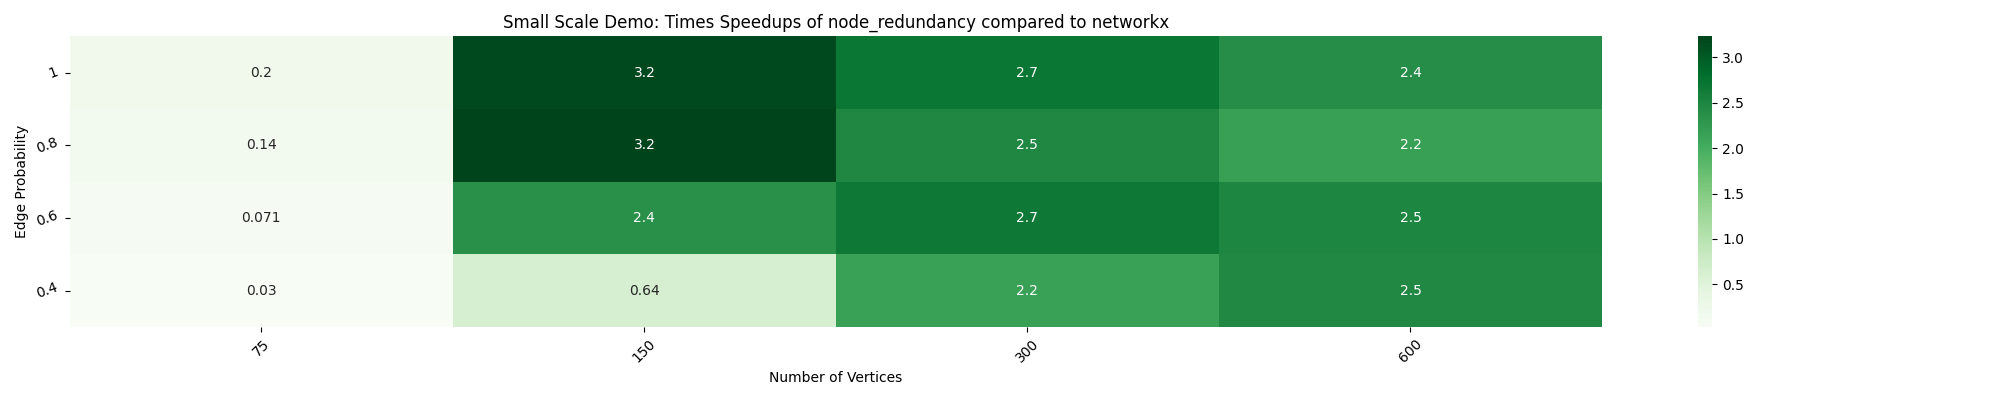
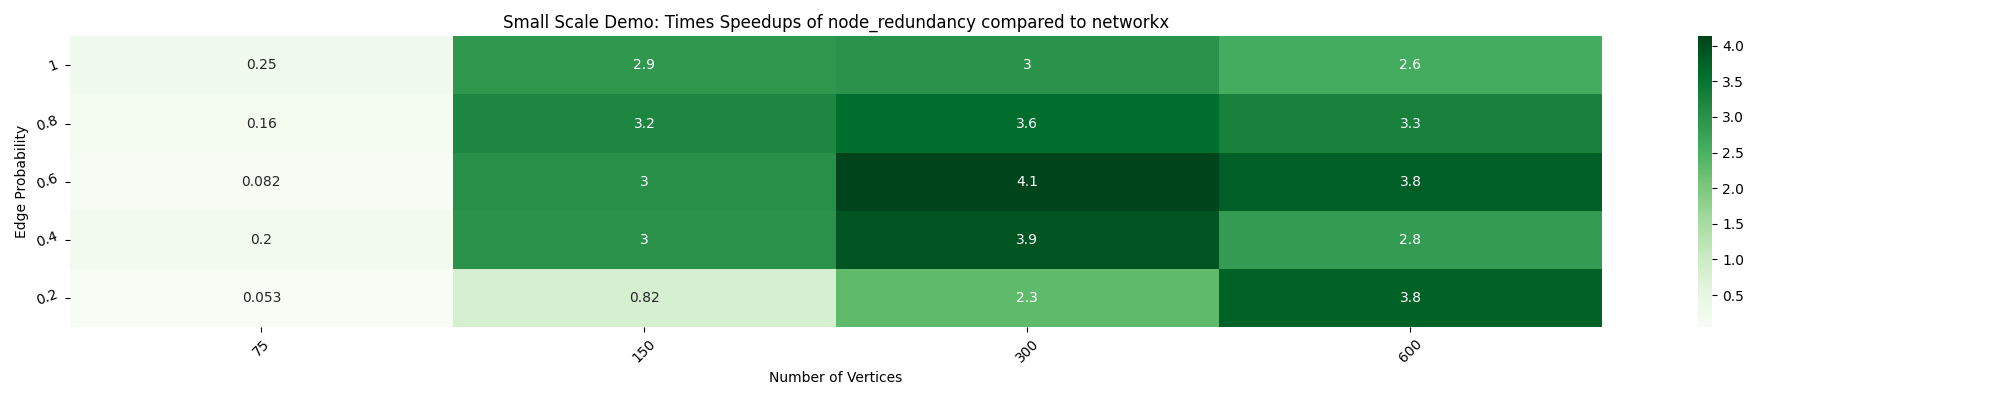
added get_chunks, updated heatmap(better speedups)

diff --git a/timing/timing_individual_function.py b/timing/timing_individual_function.py
@@ -14,44 +14,49 @@ heatmapDF = pd.DataFrame()
 # for bipartite graphs
 # n = [50, 100, 200, 400]
 # m = [25, 50, 100, 200]
-number_of_nodes_list = [10, 50, 100, 300, 500]
+number_of_nodes_list = [75, 150, 300, 600]
+weighted = False
 pList = [1, 0.8, 0.6, 0.4, 0.2]
 currFun = nx.bipartite.node_redundancy
 for p in pList:
     for num in range(len(number_of_nodes_list)):
         # create original and parallel graphs
-        G = nx.fast_gnp_random_graph(num, p, seed=42, directed=True)
+        G = nx.fast_gnp_random_graph(
+            number_of_nodes_list[num], p, seed=42, directed=True
+        )
+
         """
         # for bipartite.node_redundancy
         G = nx.bipartite.random_graph(n[num], m[num], p, seed=42, directed=True)
         for i in G.nodes:
             l = list(G.neighbors(i))
-            if len(l)==0:
+            if len(l) == 0:
                 v = random.choice(list(G.nodes) - [i,])
                 G.add_edge(i, v)
-                G.add_edge(i, random.choice(list(G.nodes) - [i, v]))
-            elif len(l)==1:
-                G.add_edge(i, random.choice(list(G.nodes) - [i, list(G.neighbors(i))[0]]))
+                G.add_edge(i, random.choice([node for node in G.nodes if node != i]))
+            elif len(l) == 1:
+                G.add_edge(i, random.choice([node for node in G.nodes if node != i and node not in list(G.neighbors(i))]))
         """
 
         # for weighted graphs
-        random.seed(42)
-        for u, v in G.edges():
-            G[u][v]["weight"] = random.random()
+        if weighted:
+            random.seed(42)
+            for u, v in G.edges():
+                G[u][v]["weight"] = random.random()
 
         H = nx_parallel.ParallelGraph(G)
 
         # time both versions and update heatmapDF
         t1 = time.time()
-        c = currFun(H)
-        if isinstance(c, types.GeneratorType):
-            d = dict(c)
+        c1 = currFun(H)
+        if isinstance(c1, types.GeneratorType):
+            d = dict(c1)
         t2 = time.time()
         parallelTime = t2 - t1
         t1 = time.time()
-        c = currFun(G)
-        if isinstance(c, types.GeneratorType):
-            d = dict(c)
+        c2 = currFun(G)
+        if isinstance(c2, types.GeneratorType):
+            d = dict(c2)
         t2 = time.time()
         stdTime = t2 - t1
         timesFaster = stdTime / parallelTime

diff --git a/nx_parallel/algorithms/bipartite/redundancy.py b/nx_parallel/algorithms/bipartite/redundancy.py
@@ -2,14 +2,22 @@ from joblib import Parallel, delayed
 from networkx.algorithms.bipartite.redundancy import _node_redundancy
 import networkx as nx
 import nx_parallel as nxp
+from itertools import chain
 
 
 __all__ = ["node_redundancy"]
 
 
-def node_redundancy(G, nodes=None):
-    """In the parallel implementation we compute the node redundancy coefficients
-    for all the nodes in the bipartite graph `G` concurrently.
+def node_redundancy(G, nodes=None, get_chunks="chunks"):
+    """In the parallel implementation we divide the nodes into chunks and compute
+    the node redundancy coefficients for all `node_chunk` in parallel.
+
+    Parameters
+    ------------
+    get_chunks : str, function (default = "chunks")
+        A function that takes in an iterable of all the nodes as input and returns
+        an iterable `node_chunks`. The default chunking is done by slicing the
+        `G.nodes` (or `nodes`) into `n` chunks, where `n` is the number of CPU cores.
 
     networkx.bipartite.node_redundancy : https://networkx.org/documentation/stable/reference/algorithms/generated/networkx.algorithms.bipartite.redundancy.node_redundancy.html"""
 
@@ -23,7 +31,15 @@ def node_redundancy(G, nodes=None):
             " that has fewer than two neighbors."
         )
     total_cores = nxp.cpu_count()
+    if get_chunks == "chunks":
+        num_in_chunk = max(len(nodes) // total_cores, 1)
+        node_chunks = nxp.chunks(nodes, num_in_chunk)
+    else:
+        node_chunks = get_chunks(nodes)
     node_redundancies = Parallel(n_jobs=total_cores)(
-        delayed(lambda G, v: (v, _node_redundancy(G, v)))(G, v) for v in nodes
+        delayed(
+            lambda G, node_chunk: [(v, _node_redundancy(G, v)) for v in node_chunk]
+        )(G, node_chunk)
+        for node_chunk in node_chunks
     )
-    return dict(node_redundancies)
+    return dict(chain.from_iterable((node_redundancies)))
